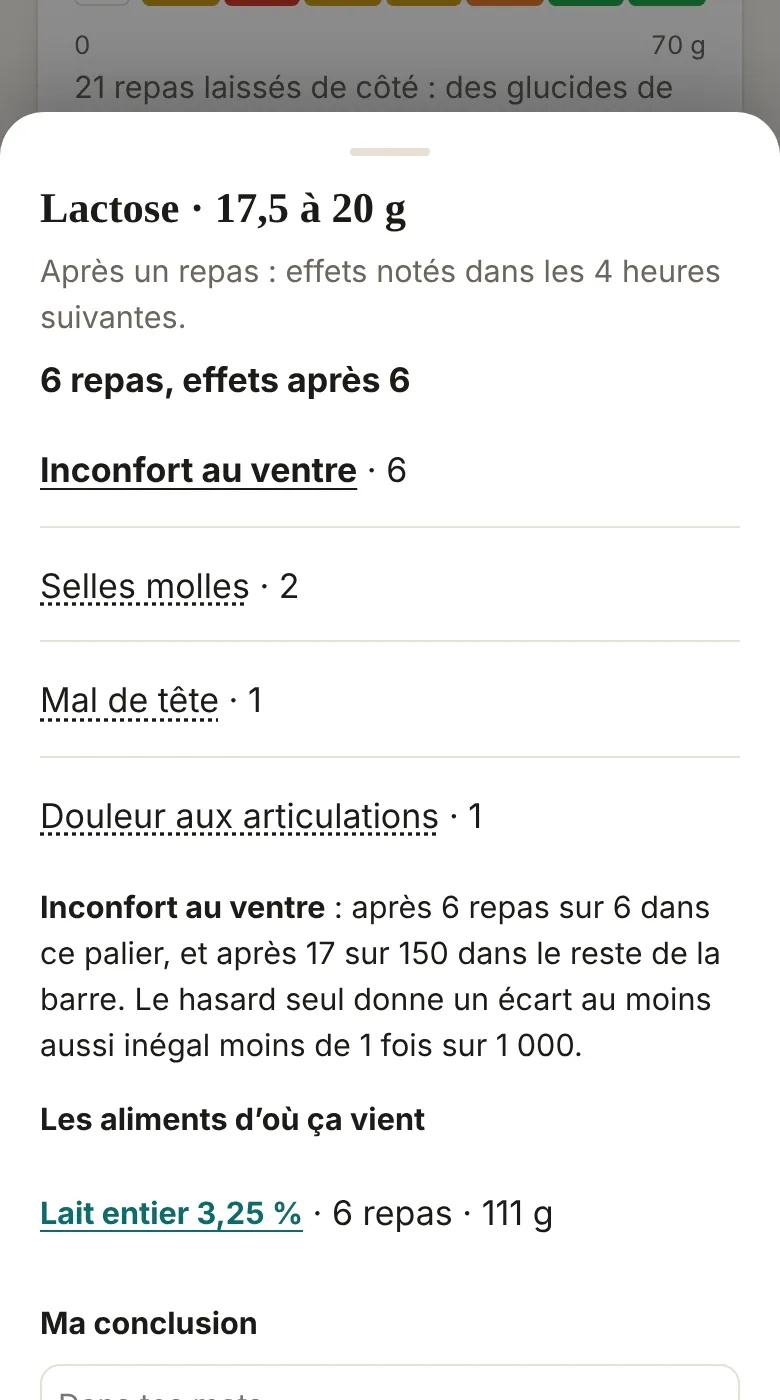
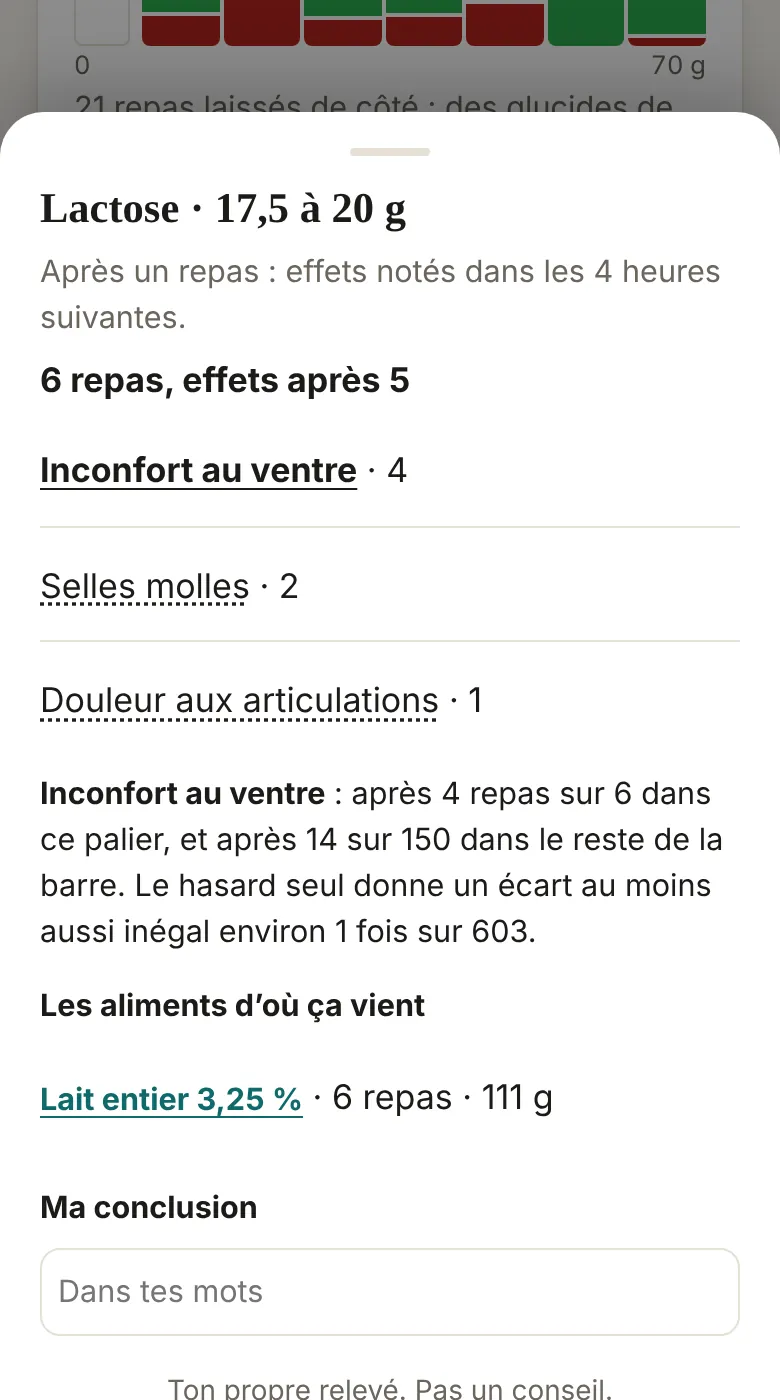
Threshold Log: the bars in green and red only
Tobie found the bars confusing: four colours, a pale tint and a dot.
A step now has two colours. Green is for its entries with no effect
reported, red for its entries with one. A step with both holds both,
red from the bottom in the share of its entries.

- No yellow, no orange, no pale tint under 5 entries, no dot.
- The green and the red are checked for colour-blind separation on the
  card colour, light and dark.
- The legend's empty swatch sat off its line, and a bar with an empty
  step had 10px of extra space under it: one style rule written for the
  "No effects today" link reached both. It names the link now.
- On a 320px phone in French a bar's count line stuck out 8px past the
  bar. The heading wraps now.
- Help, the web page and its pictures follow. The first picture on the
  page is a little taller, so the lactose bar is in it.
- Tests: the rule checks drop "pale". The walkthrough reads each bar as
  a picture: a column of pixels down every step holds red and green in
  the share of its entries, red at the bottom (tests/lib/png.js).

Claude-Session: https://claude.ai/code/session_0165oQGZXNu1ULEJPAkewgjN

diff --git a/threshold/app/index.html b/threshold/app/index.html
@@ -59,11 +59,12 @@
 :root{--bg:#f7f4ee;--card:#fff;--ink:#1c1b19;--muted:#6b665d;--line:#e6e0d4;--accent:#c8481f;--teal:#0f6b6b;--teal-soft:#e3f0ef;--warn:#b3261e;--warn-soft:#fbe9e7;--chip:#f1ede4;--chip-on:#1c1b19;--shadow:0 1px 2px rgba(0,0,0,.05),0 6px 20px -10px rgba(0,0,0,.15);
   /* the ring's slices: a fixed order, checked for colour-blind separation on this card colour. Grey is "kind not listed". */
   --s-fat:#2a78d6;--s-prot:#eb6834;--s-cplx:#1baf7a;--s-lact:#eda100;--s-sugo:#e87ba4;--s-fib:#008300;--s-alc:#6250d6;--s-unk:#9a968c;
-  /* a step of a bar: nothing reported, some, most, every time. And the Effects bar. */
-  --fx0:#1fa64a;--fx1:#c99a1a;--fx2:#e07b2e;--fx3:#d23b2a}
+  /* a step of a bar has two colours: green for its entries with no effect reported, red for its entries with one. Red is the Effects bar too.
+     The pair is checked for colour-blind separation on this card colour, so a step needs no other mark. */
+  --fx0:#2caa4e;--fx3:#b3261e}
 @media (prefers-color-scheme:dark){:root{--bg:#15161a;--card:#1e2026;--ink:#ececea;--muted:#a19d95;--line:#2d3038;--accent:#e3633a;--teal:#5fb3b3;--teal-soft:#1c2c2c;--warn:#ff7b6e;--warn-soft:#3a1f1c;--chip:#2a2d35;--chip-on:#ececea;--shadow:0 1px 2px rgba(0,0,0,.4),0 6px 20px -10px rgba(0,0,0,.6);
   --s-fat:#3987e5;--s-prot:#d95926;--s-cplx:#199e70;--s-lact:#c98500;--s-sugo:#d55181;--s-fib:#0ca30c;--s-alc:#9085e9;--s-unk:#7d7a73;
-  --fx0:#34d468;--fx1:#d9b13f;--fx2:#f08c45;--fx3:#ff5a45}}
+  --fx0:#30ad51;--fx3:#c8331a}}
 *{box-sizing:border-box}
 html,body{margin:0;background:var(--bg);color:var(--ink);font-family:system-ui,-apple-system,'Segoe UI',Roboto,sans-serif;font-size:17px;line-height:1.5;-webkit-text-size-adjust:100%}
 body{padding-bottom:calc(env(safe-area-inset-bottom) + 90px)}
@@ -177,8 +178,8 @@ html.noinst .inst,html.noinst #installPill,html.locked #installPill{display:none
 @media (max-width:340px){.topbar .in{gap:2px;padding:8px 6px} .tb.ttl{font-size:.9rem;padding:6px 2px} .tb.ttl .t2{display:none} .tb{padding:8px 6px} .bar{padding-left:10px;padding-right:10px} #bar .in{gap:6px} #bar .in .btn{padding:9px 10px}}
 
 /* ---- Threshold Log's own pieces ---- */
-.none{display:block;margin:0 auto 10px;text-align:center}
-.none[aria-pressed="true"]{color:var(--ink);text-decoration:none}
+.lnk.none{display:block;margin:0 auto 10px;text-align:center}
+.lnk.none[aria-pressed="true"]{color:var(--ink);text-decoration:none}
 /* the ring and the Effects bar, side by side: what went in, what came out */
 .io{display:grid;grid-template-columns:1fr auto;gap:14px;align-items:center}
 .ring{position:relative;width:148px;height:148px;margin:0 auto}
@@ -210,15 +211,16 @@ html.noinst .inst,html.noinst #installPill,html.locked #installPill{display:none
 .modes button{flex:1 1 0;min-width:0;white-space:normal;line-height:1.15}
 /* a threshold bar: equal steps from zero to the person's highest amount */
 .tbar{margin:0 0 14px}
-.tbar .hd{display:flex;justify-content:space-between;align-items:baseline;gap:8px;font-size:.92rem;margin-bottom:4px}
-.tbar .hd b{font-weight:700} .tbar .hd span{color:var(--muted);font-size:.84rem;font-variant-numeric:tabular-nums;white-space:nowrap}
+.tbar .hd{display:flex;flex-wrap:wrap;justify-content:space-between;align-items:baseline;gap:0 8px;font-size:.92rem;margin-bottom:4px}
+.tbar .hd b{font-weight:700} .tbar .hd span{color:var(--muted);font-size:.84rem;font-variant-numeric:tabular-nums;white-space:nowrap;margin-left:auto}
 .stepsrow{display:flex;gap:2px}
 .step{flex:1;height:44px;border:0;border-radius:4px;padding:0;cursor:pointer;position:relative;background:var(--chip)}
 .step.none{background:transparent;box-shadow:inset 0 0 0 1px var(--line);cursor:default}
-.step.s0{background:var(--fx0)} .step.s1{background:var(--fx1)} .step.s2{background:var(--fx2)} .step.s3{background:var(--fx3)}
-.step.pale{opacity:.42}
-/* a step with effects carries a mark as well as its colour: red and green are the pair colour-blind eyes confuse most */
-.step.mk::after{content:"";position:absolute;left:50%;top:50%;width:10px;height:10px;margin:-5px 0 0 -5px;border-radius:50%;background:var(--card);box-shadow:0 0 0 2px rgba(0,0,0,.35)}
+.step.g{background:var(--fx0)} .step.r{background:var(--fx3)}
+/* a step with both: red rises from the bottom by the share of its entries with an effect (--p), green above, a thin line of the card between.
+   Each colour keeps at least 5px, so one entry among many still shows. */
+.step.m{background:linear-gradient(to top,var(--fx3) var(--p),var(--fx0) var(--p))}
+@supports (width:clamp(1px,2%,3px)){.step.m{--e:clamp(5px,var(--p),calc(100% - 5px));background:linear-gradient(to top,var(--fx3) calc(var(--e) - 1px),var(--card) calc(var(--e) - 1px),var(--card) calc(var(--e) + 1px),var(--fx0) calc(var(--e) + 1px))}}
 .legend{display:flex;flex-wrap:wrap;gap:4px 14px;font-size:.82rem;color:var(--muted);margin:6px 0 0} .legend span{white-space:nowrap}
 .legend i{display:inline-block;width:14px;height:10px;border-radius:2px;vertical-align:-1px;margin-right:5px;position:relative}
 .legend i.none{box-shadow:inset 0 0 0 1px var(--line)}
@@ -244,8 +246,7 @@ ol.inst{margin:4px 0 14px;padding-left:1.4em} ol.inst li{margin:0 0 9px} .ico{di
 .step.zero{flex:0 0 9%;margin-right:4px}
 span.step{display:block}
 .scale{display:flex;justify-content:space-between;font-size:.75rem;line-height:1.2;color:var(--muted);margin-top:3px;font-variant-numeric:tabular-nums}
-.legend i.s0{background:var(--fx0)} .legend i.s1{background:var(--fx1)} .legend i.s2{background:var(--fx2)} .legend i.s3{background:var(--fx3)} .legend i.pale{opacity:.42}
-.legend i.mk::after{content:"";position:absolute;left:50%;top:50%;width:4px;height:4px;margin:-2px 0 0 -2px;border-radius:50%;background:var(--card)}
+.legend i.g{background:var(--fx0)} .legend i.r{background:var(--fx3)}
 /* one food's own bar: a cell for each amount eaten in a day */
 .fbar{display:flex;gap:2px;margin:12px 0 2px} .fbar>div{flex:1;min-width:0;text-align:center} .fbar .step{height:32px;cursor:default} .fbar small{font-size:.75rem;color:var(--muted)}
 .fxt[aria-pressed="true"]{font-weight:700;text-decoration-style:solid}
@@ -488,7 +489,7 @@ const DATA=[
    A reading is a count of what the person reported, set beside an amount. The app reports; it never interprets.
    Entries (S.ev):  {k:'meal', t, items:[{key,q}]}   {k:'fx', t, c}   {k:'none', t, d}   (t = milliseconds, d = a day key) */
 const TLE=(function(){
-const H=36e5, WIN=4*H, SOLID=5, STEPS=8, BAR_DAYS=7, UNK_MAX=2, ZEPS=0.005;
+const H=36e5, WIN=4*H, STEPS=8, BAR_DAYS=7, UNK_MAX=2, ZEPS=0.005;
 const p2=n=>(n<10?'0':'')+n;
 /* a day starts at the person's own hour (the Food Trial Log's setting), so a 1 a.m. snack belongs to the evening before */
 function dayKey(t,roll){ const d=new Date(t); if(d.getHours()<(roll||0)) d.setDate(d.getDate()-1); return d.getFullYear()+'-'+p2(d.getMonth()+1)+'-'+p2(d.getDate()); }
@@ -556,8 +557,8 @@ function steps(units){ let max=0; for(const u of units) if(u.x>max) max=u.x;
   /* "none of it" has a cell of its own, before the steps: a meal with no lactose is not a meal with a little */
   const zero={i:-1,lo:0,hi:0,n:0,k:0,fx:{},ids:[]};
   const put=(s,u)=>{ s.n++; s.ids.push(u.id); if(u.fx.length){ s.k++; for(const c of new Set(u.fx)) s.fx[c]=(s.fx[c]||0)+1; } };
-  /* rule 8: pale first, solid later. A step shows from its first entry, and is solid from five. */
-  const fin=s=>{ s.share=s.n?s.k/s.n:null; s.pale=s.n>0&&s.n<SOLID; };
+  /* rule 8: a step shows from its first entry. Its share is the part of its entries an effect was reported after. */
+  const fin=s=>{ s.share=s.n?s.k/s.n:null; };
   if(!(max>ZEPS)){ for(const u of units) put(zero,u); fin(zero); return {w:0,max:0,steps:[],zero,n:units.length}; }
   const w=stepWidth(max), n=Math.max(1,Math.min(STEPS,Math.ceil(max/w-1e-9))), st=[];
   for(let i=0;i<n;i++) st.push({i,lo:i*w,hi:(i+1)*w,n:0,k:0,fx:{},ids:[]});
@@ -589,7 +590,7 @@ function foodReading(I,key,mine){ const rows={}, without={n:0,fx:{}}; let times=
     if(d.fx.some(e=>e.c==='sleep')) put(r.night,'sleep');
     if(nx) for(const c of new Set(nx.fx.filter(e=>e.c!=='sleep').map(e=>e.c))) put(r.next,c);
     if(seen.size) r.k++; for(const c of seen) r.any[c]=(r.any[c]||0)+1; }
-  const list=Object.values(rows).sort((a,b)=>a.q-b.q); for(const r of list) r.pale=r.n<SOLID;
+  const list=Object.values(rows).sort((a,b)=>a.q-b.q);
   return {key,times,clean,rows:list,without}; }
 function foodLuck(R,row,c){ return luck(row.any[c]||0,row.n-(row.any[c]||0),R.without.fx[c]||0,R.without.n-(R.without.fx[c]||0)); }
 
@@ -664,7 +665,7 @@ function common(outKeys,listKeys,food){ const cnt=(keys)=>{ const c={}; let n=0;
   const typ=[['lact',f=>amounts(f,1).lact],['fat',f=>f.fat],['sug',f=>f.sug==null?null:amounts(f,1).sug],['fib',f=>f.fib]].map(([k,fn])=>({k,o:med(outKeys,fn),l:med(listKeys,fn)})).filter(r=>r.o!=null&&r.l!=null);
   return {rows:rows.slice(0,5),typ,on:O.n,ln:L.n}; }
 
-return {H,WIN,SOLID,STEPS,BAR_DAYS,BUCKETS,SLICES,MICRO,dayKey,keyAdd,dayStart,fxDay,amounts,addInto,mealAmounts,ZERO,index,usable,mealUnits,dayUnits,stepWidth,steps,bar,luck,stepRest,stepLuck,foodReading,foodLuck,went,came,cameMax,reportedDays,pie,reference,gutBase,importGut,common};
+return {H,WIN,STEPS,BAR_DAYS,BUCKETS,SLICES,MICRO,dayKey,keyAdd,dayStart,fxDay,amounts,addInto,mealAmounts,ZERO,index,usable,mealUnits,dayUnits,stepWidth,steps,bar,luck,stepRest,stepLuck,foodReading,foodLuck,went,came,cameMax,reportedDays,pie,reference,gutBase,importGut,common};
 })();
 if(typeof module!=='undefined') module.exports=TLE;
 /* ENGINE:END */
@@ -953,9 +954,11 @@ function rnum(x,w){ const d=w>=1?(Math.abs(w%1)>1e-9?1:0):(Math.round(w*100)%10?
 const unitWord=(mode,n)=>mode==='day'?L(n===1?'day':'days',n===1?'jour':'jours'):L(n===1?'meal':'meals','repas');
 function stepRange(B,s){ const u=BARN[B.b][2]; return s.i<0?U(0,u,0):s.i===0?L('up to ','jusqu’à ')+rnum(s.hi,B.w)+'\u00a0'+u:rnum(s.lo,B.w)+L(' to ',' à ')+rnum(s.hi,B.w)+'\u00a0'+u; }
 function stepCount(B,s){ return B.mode==='day'?L(`${s.n} ${unitWord('day',s.n)}, effects reported for ${s.k}`,`${s.n} ${unitWord('day',s.n)}, effets notés pour ${s.k}`):L(`${s.n} ${unitWord('meal',s.n)}, effects after ${s.k}`,`${s.n} repas, effets après ${s.k}`); }
-const shareCls=(k,n)=>{ const sh=k/n; return sh===0?'s0':sh<0.5?'s1':sh<1?'s2':'s3'; };
-function stepHTML(B,s){ const z=s.i<0?'zero ':'', lab=stepRange(B,s)+COL()+(s.n?stepCount(B,s):L('never eaten','jamais mangé'));
-  return s.n?`<button type="button" class="step ${z}${shareCls(s.k,s.n)}${s.pale?' pale':''}${s.k?' mk':''}" data-act="step" data-k="${B.b}" data-v="${s.i}" aria-label="${esc(lab)}" title="${esc(lab)}"></button>`
+/* a step's paint, in two colours: green (g) when no effect was reported after any of its n entries, red (r) when one was after every entry,
+   and both (m) between, with red taking the share of the k entries an effect was reported after */
+const stepPaint=(k,n)=>k===0?['g','']:k===n?['r','']:['m',` style="--p:${Math.round(k/n*100)}%"`];
+function stepHTML(B,s){ const z=s.i<0?'zero ':'', lab=stepRange(B,s)+COL()+(s.n?stepCount(B,s):L('never eaten','jamais mangé')), [pc,ps]=s.n?stepPaint(s.k,s.n):[];
+  return s.n?`<button type="button" class="step ${z}${pc}"${ps} data-act="step" data-k="${B.b}" data-v="${s.i}" aria-label="${esc(lab)}" title="${esc(lab)}"></button>`
     :`<span class="step ${z}none" role="img" aria-label="${esc(lab)}" title="${esc(lab)}"></span>`; }
 const leftWhy=b=>b==='fib'?L('a fibre supplement with no figure, or a food with no numbers','un supplément de fibres sans chiffre, ou un aliment sans chiffres'):b==='hist'?L('a histamine food with no figure, or a food with no numbers','un aliment à histamine sans chiffre, ou un aliment sans chiffres'):b==='cplx'||b==='sug'?L('carbs of a kind not listed, or a food with no numbers','des glucides de sorte non indiquée, ou un aliment sans chiffres'):L('a food with no numbers','un aliment sans chiffres');
 function barHTML(B){ const [en,fr,u]=BARN[B.b], n=B.n, c=(S.concl[B.b]||'').trim(), why=leftWhy(B.b);
@@ -973,7 +976,8 @@ function vThr(){ const I=IX(), mode=S.tmode, bars=E.BUCKETS.map(b=>E.bar(I,b,mod
   return `<div class="gtabs seg toptabs modes" role="group" aria-label="${L('Reading','Lecture')}"><button type="button" data-act="tmode" data-v="meal" aria-pressed="${mode==='meal'}">${L('After a meal','Après un repas')}</button><button type="button" data-act="tmode" data-v="day" aria-pressed="${mode==='day'}">${L('Over a day','Sur une journée')}</button></div>
   <p class="small muted" style="margin:0 0 10px">${mode==='meal'?L('The amount in one meal, and the effects you reported in the 4 hours after it.','La quantité dans un repas, et les effets que tu as notés dans les 4 heures suivantes.'):L('The total for a day, and the effects you reported that day, that night and the next day.','Le total d’une journée, et les effets que tu as notés ce jour-là, cette nuit-là et le lendemain.')}</p>
   <div class="card">${rd?'':`<p class="small" style="margin:0 0 12px">${L('Nothing to draw yet. The bars are drawn from complete days: a meal, and either an effect or a tap on “No effects today”.','Rien à tracer encore. Les barres sont tracées à partir des journées complètes\u00a0: un repas, et soit un effet, soit un appui sur «\u00a0Aucun effet aujourd’hui\u00a0».')}</p>`}${bars.map(barHTML).join('')}
-  <p class="legend"><span>${L('Effects reported after','Effets notés après')}${COL()}</span><span><i class="s0"></i>${L('none','aucun')}</span><span><i class="s1 mk"></i>${L('under half','moins de la moitié')}</span><span><i class="s2 mk"></i>${L('half or more','la moitié ou plus')}</span><span><i class="s3 mk"></i>${L('all','tous')}</span><span><i class="s0 pale"></i>${L('under 5 entries','moins de 5 entrées')}</span><span><i class="none"></i>${L('never eaten','jamais mangé')}</span></p>
+  <p class="legend"><span><i class="g"></i>${L('no effect reported','aucun effet noté')}</span><span><i class="r"></i>${L('an effect reported','un effet noté')}</span><span><i class="none"></i>${L('never eaten','jamais mangé')}</span></p>
+  <p class="small muted" style="margin:6px 0 0">${L('The more red in a step, the more often an effect was reported.','Plus un palier est rouge, plus souvent un effet a été noté.')}</p>
   <p class="mine">${L('Tap a step for its numbers.','Appuie sur un palier pour ses chiffres.')} ${MINE()}</p></div>
   <h3 style="margin-top:18px">${L('One food','Un aliment')}</h3>
   <div class="fsearch"><label class="vh" for="tQ">${L('Look up a food','Chercher un aliment')}</label><input type="search" id="tQ" class="sel" data-in="tq" value="${esc(UI.tq||'')}" placeholder="${L('Look up a food','Chercher un aliment')}" autocomplete="off"></div>
@@ -996,7 +1000,7 @@ function stepSheet(keep){ const u=UI.st, B=E.bar(IX(),u.b,S.tmode), s=u.i<0?B.ze
     luck=`<p class="small" style="margin:8px 0 0" id="luckLine"><b>${esc(cap(fxName(u.c)))}</b>${COL()}${L(`${pre} ${y} of ${s.n} ${uw(s.n)} in this step`,`${pre} ${y} ${uw(y)} sur ${s.n} dans ce palier`)}${r.n?L(`, and ${pre} ${r.y} of ${r.n} in the rest of the bar.`,`, et ${pre} ${r.y} sur ${r.n} dans le reste de la barre.`):'.'} ${luckTxt(E.stepLuck(B,u.i,u.c))}</p>`; }
   showSheet(`<h3 id="sheetTitle">${L(en,fr)} · ${stepRange(B,s)}</h3>
   <p class="small muted" style="margin:0 0 8px">${B.mode==='meal'?L('After a meal: effects reported in the 4 hours after it.','Après un repas\u00a0: effets notés dans les 4 heures suivantes.'):L('Over a day: effects reported that day, that night and the next day.','Sur une journée\u00a0: effets notés ce jour-là, cette nuit-là et le lendemain.')}</p>
-  <p style="margin:0"><b>${cap(stepCount(B,s))}</b></p>${s.pale?`<p class="small muted" style="margin:2px 0 0">${L(`Under 5 ${uw(2)}: drawn pale.`,`Moins de 5 ${uw(2)}\u00a0: tracé pâle.`)}</p>`:''}
+  <p style="margin:0"><b>${cap(stepCount(B,s))}</b></p>
   ${kinds.length?`<ul class="evs">${kinds.map(([c,n])=>`<li><button type="button" class="fxt" data-act="stfx" data-v="${esc(c)}" aria-pressed="${u.c===c}">${esc(fxName(c))}</button> · ${n}</li>`).join('')}</ul>${luck||`<p class="small muted" style="margin:0">${L('Tap an effect to see how often luck alone gives its split.','Appuie sur un effet pour voir à quelle fréquence le hasard seul donne son écart.')}</p>`}`:''}
   ${from.length?`<p class="small" style="margin:14px 0 0"><b>${L('The foods it came from','Les aliments d’où ça vient')}</b></p><ul class="evs">${from.map(a=>`<li><button type="button" class="lnk" data-act="foodrd" data-v="${esc(a.key)}">${esc(fname(food(a.key)))}</button> · ${a.u.size} ${uw(a.u.size)} · ${U(a.x,un,a.x<1?2:a.x<10?1:0)}</li>`).join('')}</ul>`:''}
   ${conclHTML(u.b)}`,keep); }
@@ -1024,7 +1028,7 @@ function foodSheet(keep){ const u=UI.fr, key=u.key, f=food(key), I=IX(), R=E.foo
   <p class="small">${holdsTxt(f)}</p>
   ${R.times?`<p style="margin:0"><b>${L(`Reported on ${R.times} complete ${dw(R.times)}.`,`Noté ${R.times} ${R.times>1?'journées complètes':'journée complète'}.`)}</b></p>
     ${S.list.length?`<p class="small muted" style="margin:2px 0 0">${L(`On ${R.clean} of them, everything else you ate was on your list.`,`Pour ${R.clean} d’entre elles, tout le reste de ce que tu as mangé était sur ta liste.`)}</p>`:''}
-    <div class="fbar">${R.rows.map(r=>`<div><span class="step ${shareCls(r.k,r.n)}${r.pale?' pale':''}${r.k?' mk':''}" role="img" aria-label="${qtxt(r.q)} ×${COL()}${r.n} ${dw(r.n)}, ${L(`effects reported for ${r.k}`,`effets notés pour ${r.k}`)}"></span><small>${qtxt(r.q)}\u00a0×</small></div>`).join('')}</div>
+    <div class="fbar">${R.rows.map(r=>{ const [pc,ps]=stepPaint(r.k,r.n); return `<div><span class="step ${pc}"${ps} role="img" aria-label="${qtxt(r.q)} ×${COL()}${r.n} ${dw(r.n)}, ${L(`effects reported for ${r.k}`,`effets notés pour ${r.k}`)}"></span><small>${qtxt(r.q)}\u00a0×</small></div>`; }).join('')}</div>
     <ul class="rd">${rows}</ul>
     <p class="small" style="margin:8px 0 0">${L('Complete days without it','Journées complètes sans cet aliment')}${COL()}<b>${R.without.n}</b>${wo.length?' · '+wo.map(([c,n])=>esc(fxLow(c))+'\u00a0'+n).join(' · '):''}</p>
     <p class="small muted" style="margin:6px 0 0">${L('Only effects reported after the food count on the same day. Tap an effect to see how often luck alone gives its split.','Le même jour, seuls les effets notés après l’aliment comptent. Appuie sur un effet pour voir à quelle fréquence le hasard seul donne son écart.')}</p>`
@@ -1139,7 +1143,7 @@ function helpSheet(){ const H2=(en,fr,ten,tfr)=>`<p class="small"><b>${L(en,fr)}
   +H2('The ring.','L’anneau.','What you reported eating in the period, by weight: fat, protein, complex carbs, lactose, other sugars and fibre. The key under it has the grams. “Carbs, kind not listed” are the carbs of foods whose sugars Health Canada doesn’t list.','Ce que tu as noté avoir mangé pendant la période, selon le poids\u00a0: gras, protéines, glucides complexes, lactose, autres sucres et fibres. La légende en dessous donne les grammes. Les «\u00a0glucides, sorte non indiquée\u00a0» sont les glucides des aliments dont Santé Canada n’indique pas les sucres.')
   +H2('Histamine, estimated.','Histamine, estimée.','The number in the middle of the ring. It’s the weight of each serving times the average for its food type in a 2011 European table. The amount in your own piece can be many times more or less: one kind of cheese has measured from under 5 to over 1,000 mg per kg. Read it as a count of histamine food.','Le chiffre au milieu de l’anneau. C’est le poids de chaque portion multiplié par la moyenne de son type d’aliment dans un tableau européen de 2011. La quantité dans ton propre morceau peut être plusieurs fois plus grande ou plus petite\u00a0: une même sorte de fromage a déjà mesuré de moins de 5 à plus de 1\u00a0000 mg par kg. Lis-le comme un compte d’aliments à histamine.')
   +H2('The Effects bar.','La barre des effets.','How many effects you reported in the period. It fills against your own highest count for a period of the same length, and it draws after 7 complete days.','Combien d’effets tu as notés pendant la période. Elle se remplit par rapport à ton propre compte le plus élevé pour une période de même durée, et elle se trace après 7 journées complètes.')
-  +H2('The Threshold bars.','Les barres de seuil.','Each bar runs from zero to your own highest amount, in equal steps. The small first cell is “none of it”. Green: no effect was reported after any entry in that step. Red: after every entry. Yellow and orange: after some. A step with effects carries a dot. A pale step has under 5 entries. An outlined step is an amount you never ate. “After a meal” reads one meal and the 4 hours after it. “Over a day” reads the total for a day with that day, that night and the next day. Poor sleep counts for the night before the morning you report it.','Chaque barre va de zéro à ta propre quantité la plus élevée, en paliers égaux. La petite première case, c’est «\u00a0aucun\u00a0». Vert\u00a0: aucun effet n’a été noté après les entrées de ce palier. Rouge\u00a0: après chacune. Jaune et orange\u00a0: après certaines. Un palier avec des effets porte un point. Un palier pâle a moins de 5 entrées. Un palier vide, avec un contour seulement, est une quantité que tu n’as jamais mangée. «\u00a0Après un repas\u00a0» lit un repas et les 4 heures suivantes. «\u00a0Sur une journée\u00a0» lit le total d’une journée avec ce jour-là, cette nuit-là et le lendemain. Un mauvais sommeil compte pour la nuit qui précède le matin où tu le notes.')
+  +H2('The Threshold bars.','Les barres de seuil.','Each bar runs from zero to your own highest amount, in equal steps. The small first cell is “none of it”. There are two colours. Green is for entries with no effect reported after them. Red is for entries with one. A step that has both shows both, with red at the bottom: the more red, the more often an effect was reported after that amount. An outlined step is an amount you never ate. “After a meal” reads one meal and the 4 hours after it. “Over a day” reads the total for a day with that day, that night and the next day. Poor sleep counts for the night before the morning you report it.','Chaque barre va de zéro à ta propre quantité la plus élevée, en paliers égaux. La petite première case, c’est «\u00a0aucun\u00a0». Il y a deux couleurs. Le vert est pour les entrées sans effet noté après. Le rouge est pour celles qui en ont un. Un palier qui a les deux montre les deux, le rouge en bas\u00a0: plus il y a de rouge, plus souvent un effet a été noté après cette quantité. Un palier vide, avec un contour seulement, est une quantité que tu n’as jamais mangée. «\u00a0Après un repas\u00a0» lit un repas et les 4 heures suivantes. «\u00a0Sur une journée\u00a0» lit le total d’une journée avec ce jour-là, cette nuit-là et le lendemain. Un mauvais sommeil compte pour la nuit qui précède le matin où tu le notes.')
   +H2('The luck number.','Le chiffre du hasard.','Tap a step, then an effect. The app sets that step beside the rest of its bar and says how often luck alone would give a split at least that uneven. It’s Fisher’s exact test, the one The Patch uses. The more steps and effects you look at, the more often one of them looks uneven by luck alone.','Appuie sur un palier, puis sur un effet. L’app met ce palier à côté du reste de sa barre et dit à quelle fréquence le hasard seul donnerait un écart au moins aussi inégal. C’est le test exact de Fisher, celui qu’utilise The Patch. Plus tu regardes de paliers et d’effets, plus souvent l’un d’eux paraît inégal par le seul hasard.')
   +H2('What a bar can’t tell apart.','Ce qu’une barre ne peut pas départager.','Things eaten together. If your high-fat meals were also your high-histamine meals, both bars take the same colours. And what you expect can shape what you feel and report.','Les choses mangées ensemble. Si tes repas riches en gras étaient aussi tes repas riches en histamine, les deux barres prennent les mêmes couleurs. Et ce à quoi tu t’attends peut influencer ce que tu ressens et ce que tu notes.')
   +H2('One food.','Un aliment.','On the Threshold tab, look up a food to see what you reported on the days you ate it, by the amount eaten that day, and on the days without it.','Dans l’onglet Seuil, cherche un aliment pour voir ce que tu as noté les jours où tu en as mangé, selon la quantité mangée ce jour-là, et les jours sans cet aliment.')

diff --git a/tests/threshold/people.test.js b/tests/threshold/people.test.js
@@ -6,7 +6,7 @@
 'use strict';
 const { ZONE } = require('../lib/zone.js');     // one fixed-offset zone for Node and for the browser, so both read a clock time the same way
 const fs = require('fs'), path = require('path'), { chromium } = require('playwright');
-const { serve } = require('../lib/serve.js'), O = require('./oracle.js'), P = require('./people.js');
+const { serve } = require('../lib/serve.js'), { decode } = require('../lib/png.js'), O = require('./oracle.js'), P = require('./people.js');
 const ROOT = path.join(__dirname, '..', '..'), FIX = path.join(__dirname, '..', 'fixtures');
 const saveDir = process.argv.includes('--save') ? process.argv[process.argv.indexOf('--save') + 1] : null;
 
@@ -106,13 +106,22 @@ async function play(browser, base, person, table) {
   }
   // ...and the same numbers as they are drawn
   await page.click('[data-act=tab][data-v=thr]');
+  const tone = await page.evaluate(() => { const rgb = v => { const e = document.createElement('i'); e.style.background = `var(${v})`; document.body.appendChild(e); const c = getComputedStyle(e).backgroundColor.match(/\d+/g).slice(0, 3).map(Number); e.remove(); return c; }; return { g: rgb('--fx0'), r: rgb('--fx3'), card: rgb('--card') }; });
+  ok(N('the two colours of a step are a green and a red'), tone.g[1] > tone.g[0] + 60 && tone.g[1] > tone.g[2] + 60 && tone.r[0] > tone.r[1] + 60 && tone.r[0] > tone.r[2] + 60, JSON.stringify(tone));
   for (const mode of ['meal', 'day']) { await page.click(`[data-act=tmode][data-v=${mode}]`);
     for (const b of BARS) { const c = R.cells(b, mode), labels = await page.locator(`#bar-${b} .stepsrow .step`).evaluateAll(els => els.map(e => e.getAttribute('aria-label')));
       const read = l => { const m = /(\d+) [^\d,]+, [^\d]*?(\d+)$/.exec(l); return m ? [+m[1], +m[2]] : [0, 0]; }, cells = c.n ? [c.zero].concat(c.steps) : [];
       same(N(`${b}, ${mode}: the steps on screen`), c.n && c.steps.length ? labels.map(read) : labels.slice(0, 1).map(read), c.n && c.steps.length ? cells.map(s => [s.n, s.k]) : c.n ? [[c.zero.n, c.zero.k]] : [[0, 0]]);
-      const drawn = await page.locator(`#bar-${b} .stepsrow .step`).evaluateAll(els => els.map(e => ({ none: e.classList.contains('none'), pale: e.classList.contains('pale'), mark: e.classList.contains('mk'), s: ['s0', 's1', 's2', 's3'].find(x => e.classList.contains(x)) || null })));
-      const paint = s => ({ none: !s.n, pale: s.n > 0 && s.n < 5, mark: s.k > 0, s: !s.n ? null : s.k === 0 ? 's0' : s.k / s.n < 0.5 ? 's1' : s.k < s.n ? 's2' : 's3' });
-      if (c.n && c.steps.length) same(N(`${b}, ${mode}: colour, pale and mark of every step`), drawn, cells.map(paint)); } }
+      // two colours and no others: green (g), red (r), both (m, with the red share), or an empty outline (none)
+      const drawn = await page.locator(`#bar-${b} .stepsrow .step`).evaluateAll(els => els.map(e => [['none', 'g', 'r', 'm'].filter(x => e.classList.contains(x)).join(' '), e.style.getPropertyValue('--p')]));
+      const share = s => Math.round(s.k / s.n * 100), paint = s => !s.n ? ['none', ''] : !s.k ? ['g', ''] : s.k === s.n ? ['r', ''] : ['m', share(s) + '%'];
+      if (c.n && c.steps.length) { same(N(`${b}, ${mode}: green, red or both for every step`), drawn, cells.map(paint));
+        // ...and the picture itself, one column of pixels down the middle of each step: red from the bottom, in the share of its entries
+        const row = page.locator(`#bar-${b} .stepsrow`), png = decode(await row.screenshot()), mid = await row.locator('.step').evaluateAll(els => { const o = els[0].parentElement.getBoundingClientRect(); return els.map(e => { const r = e.getBoundingClientRect(); return Math.round(r.left - o.left + r.width / 2); }); });
+        const far = (a, t) => (a[0] - t[0]) ** 2 + (a[1] - t[1]) ** 2 + (a[2] - t[2]) ** 2, H = 44;
+        const seen = mid.map(x => { let r = 0, g = 0, lowG = -1, highR = png.h; for (let y = 0; y < png.h; y++) { const a = png.at(x, y), dr = far(a, tone.r), dg = far(a, tone.g), dc = far(a, tone.card); if (dr < dg && dr < dc) { r++; highR = Math.min(highR, y); } else if (dg < dr && dg < dc) { g++; lowG = y; } } return [r, g, lowG < highR]; });
+        const want = cells.map(s => { if (!s.n) return [0, 0]; if (!s.k) return [0, H]; if (s.k === s.n) return [H, 0]; const e = Math.min(H - 5, Math.max(5, share(s) / 100 * H)); return [e - 1, H - e - 1]; });      // each colour keeps 5 pixels; 2 go to the line between them
+        ok(N(`${b}, ${mode}: in the picture, each step holds red and green in the share of its entries, red at the bottom`), seen.length === want.length && seen.every((s, i) => Math.abs(s[0] - want[i][0]) <= 1.5 && Math.abs(s[1] - want[i][1]) <= 1.5 && s[2]), 'pixels of red and green ' + JSON.stringify(seen.map(s => s.slice(0, 2))) + '\n     recount ' + JSON.stringify(want)); } } }
   // one step's sheet, and the luck number, by brute force
   { const c = R.cells('lact', 'meal'), B = await page.evaluate(() => { const B = TLE.bar(IX(), 'lact', 'meal'); return { zero: B.zero, steps: B.steps }; }), all = [c.zero].concat(c.steps);
     let i = all.findIndex((s, j) => j > 0 && s.k > 0), code = i > 0 ? Object.keys(all[i].fx)[0] : null;

diff --git a/threshold/index.html b/threshold/index.html
@@ -93,7 +93,7 @@ section{padding:42px 0;border-top:1px solid var(--line)}
       <p class="small">Free. No account, no ads. Your log stays on your phone.</p>
     </div>
     <figure class="shot">
-      <img src="img/bars-en.webp" alt="The Threshold screen: one bar each for fat, complex carbs, sugars, lactose, fibre and histamine, in steps from zero to the person’s highest amount, each step coloured by how often an effect was reported after it" width="780" height="1400">
+      <img src="img/bars-en.webp" alt="The Threshold screen: one bar each for fat, complex carbs, sugars, lactose, fibre and histamine, in steps from zero to the person’s highest amount, each step green where no effect was reported after it and red where one was" width="780" height="1560">
       <figcaption>Each bar runs from zero to your own highest amount.</figcaption>
     </figure>
   </div>
@@ -103,7 +103,7 @@ section{padding:42px 0;border-top:1px solid var(--line)}
     <div class="cards two">
       <div class="card"><h3>Report a meal.</h3><ul><li>Pick the foods and the portions, in halves.</li><li>The app carries 205 foods, most with Health Canada’s numbers.</li><li>A food that isn’t there goes in from its label.</li></ul></div>
       <div class="card"><h3>Report an effect.</h3><ul><li>Physical or psychological, with its time. One tap each.</li><li>Gut discomfort, headache, joint pain, poor sleep, low energy, or your own words.</li><li>On a day with none, tap <b>No effects today</b>.</li></ul></div>
-      <div class="card"><h3>Read the bars.</h3><ul><li>A bar each for fat, complex carbs, sugars, lactose, fibre and histamine.</li><li>Every step is an amount you ate. Its colour is how often an effect was reported after it.</li><li>After a meal, or over a day.</li></ul></div>
+      <div class="card"><h3>Read the bars.</h3><ul><li>A bar each for fat, complex carbs, sugars, lactose, fibre and histamine.</li><li>Every step is an amount you ate. Green: no effect reported after it. Red: an effect reported. The more red in a step, the more often.</li><li>After a meal, or over a day.</li></ul></div>
       <div class="card"><h3>You draw the conclusion.</h3><ul><li>The app counts. It doesn’t say what a count means.</li><li>It doesn’t tell you what to eat.</li><li>Every reading carries the same line: your own report, not advice.</li></ul></div>
     </div>
   </section>
@@ -202,7 +202,7 @@ section{padding:42px 0;border-top:1px solid var(--line)}
       <p class="small">Gratuit. Pas de compte, pas de publicité. Ton journal reste sur ton téléphone.</p>
     </div>
     <figure class="shot">
-      <img src="img/bars-fr.webp" alt="L’écran Seuil&nbsp;: une barre pour le gras, les glucides complexes, les sucres, le lactose, les fibres et l’histamine, en paliers de zéro à la quantité la plus élevée de la personne, chaque palier coloré selon la fréquence des effets notés après" width="780" height="1400">
+      <img src="img/bars-fr.webp" alt="L’écran Seuil&nbsp;: une barre pour le gras, les glucides complexes, les sucres, le lactose, les fibres et l’histamine, en paliers de zéro à la quantité la plus élevée de la personne, chaque palier vert là où aucun effet n’a été noté après et rouge là où un effet l’a été" width="780" height="1560">
       <figcaption>Chaque barre va de zéro à ta propre quantité la plus élevée.</figcaption>
     </figure>
   </div>
@@ -212,7 +212,7 @@ section{padding:42px 0;border-top:1px solid var(--line)}
     <div class="cards two">
       <div class="card"><h3>Note un repas.</h3><ul><li>Choisis les aliments et les portions, par demies.</li><li>L’app contient 205 aliments, la plupart avec les chiffres de Santé Canada.</li><li>Un aliment qui n’y est pas s’ajoute selon son étiquette.</li></ul></div>
       <div class="card"><h3>Note un effet.</h3><ul><li>Physique ou psychologique, avec son heure. Un appui chacun.</li><li>Inconfort au ventre, mal de tête, douleur aux articulations, mauvais sommeil, peu d’énergie, ou tes propres mots.</li><li>Une journée sans effet, appuie sur <b>Aucun effet aujourd’hui</b>.</li></ul></div>
-      <div class="card"><h3>Lis les barres.</h3><ul><li>Une barre pour le gras, les glucides complexes, les sucres, le lactose, les fibres et l’histamine.</li><li>Chaque palier est une quantité que tu as mangée. Sa couleur dit à quelle fréquence un effet a été noté après.</li><li>Après un repas, ou sur une journée.</li></ul></div>
+      <div class="card"><h3>Lis les barres.</h3><ul><li>Une barre pour le gras, les glucides complexes, les sucres, le lactose, les fibres et l’histamine.</li><li>Chaque palier est une quantité que tu as mangée. Vert&nbsp;: aucun effet noté après. Rouge&nbsp;: un effet noté. Plus un palier est rouge, plus c’est fréquent.</li><li>Après un repas, ou sur une journée.</li></ul></div>
       <div class="card"><h3>C’est toi qui conclus.</h3><ul><li>L’app compte. Elle ne dit pas ce qu’un compte veut dire.</li><li>Elle ne te dit pas quoi manger.</li><li>Chaque relevé porte la même ligne&nbsp;: ton propre relevé, pas un conseil.</li></ul></div>
     </div>
   </section>

diff --git a/tests/threshold/engine.test.js b/tests/threshold/engine.test.js
@@ -82,7 +82,7 @@ eq('a headache belongs to its own day', E.fxDay(fx('2026-11-10', '07:00', 'head'
   eq('the day itself', U.units[1].fx, ['head']);
   eq('a day with nothing that day, that night or the next', U.units[2].fx, []); }
 
-// ---- rule 6 and 8: steps, pale and solid ----
+// ---- rule 6 and 8: steps, each shown from its first entry ----
 eq('step width for a 60 g range', E.stepWidth(60), 10);
 eq('step width for a 3 mg range', E.stepWidth(3), 0.5);
 { const units = []; for (let i = 0; i < 6; i++) units.push({ x: 5, fx: [], id: 'a' + i }); for (let i = 0; i < 2; i++) units.push({ x: 35, fx: ['head'], id: 'b' + i }); units.push({ x: 60, fx: ['head', 'gut'], id: 'c' }); units.push({ x: 60, fx: [], id: 'd' });
@@ -90,12 +90,12 @@ eq('step width for a 3 mg range', E.stepWidth(3), 0.5);
   eq('six steps of 10 g', [B.w, B.steps.length, B.max], [10, 6, 60]);
   eq('entries land in their step, the top edge included', B.steps.map(s => s.n), [6, 0, 0, 2, 0, 2]);
   eq('share of entries followed by an effect', B.steps.map(s => s.share), [0, null, null, 1, null, 0.5]);
-  eq('solid from five entries, pale below', B.steps.map(s => s.pale), [false, false, false, true, false, true]);
+  eq('a step shows from its first entry', E.steps([{ x: 5, fx: ['head'], id: 1 }]).steps.filter(s => s.n).map(s => [s.n, s.k, s.share]), [[1, 1, 1]]);
   eq('effects counted by kind, once per entry', B.steps[5].fx, { head: 1, gut: 1 });
   eq('no amounts, no bar', E.steps([{ x: 0, fx: [], id: 1 }]).steps.length, 0); }
 // "none of it" has its own cell, so a meal with no lactose is never counted as a meal with a little
 { const B = E.steps([{ x: 0, fx: [], id: 1 }, { x: 0, fx: ['gut'], id: 2 }, { x: 0.001, fx: [], id: 3 }, { x: 4, fx: ['gut'], id: 4 }, { x: 12, fx: ['gut'], id: 5 }]);
-  eq('the none cell: its entries, and how many were followed by an effect', [B.zero.n, B.zero.k, B.zero.share, B.zero.pale], [3, 1, 1 / 3, true]);
+  eq('the none cell: its entries, and how many were followed by an effect', [B.zero.n, B.zero.k, B.zero.share], [3, 1, 1 / 3]);
   eq('the steps hold only the entries with some of it', B.steps.map(s => s.n), [0, 0, 1, 0, 0, 1]);
   eq('everything is counted once', B.zero.n + B.steps.reduce((t, s) => t + s.n, 0), B.n);
   eq('with no amounts at all, the none cell still holds the entries', E.steps([{ x: 0, fx: ['head'], id: 1 }]).zero.k, 1); }
@@ -126,8 +126,7 @@ eq('nothing to compare with', E.luck(3, 0, 0, 0), null);
   eq('next day', R.rows[0].next, { lowen: 1, gut: 1 });
   eq('the days without it stay on screen', [R.without.n, R.without.fx], [2, { lowen: 1, gut: 1 }]);
   eq('how clean it was: days where nothing else was new', R.clean, 2);
-  eq('days with any effect that day, that night or the next day, at each amount', R.rows.map(r => r.k), [2, 1]);
-  eq('a row is pale under five', R.rows[0].pale, true); }
+  eq('days with any effect that day, that night or the next day, at each amount', R.rows.map(r => r.k), [2, 1]); }
 
 // ---- Home: what went in, what came out ----
 { const S = { roll: 0, ev: [] }; for (let d = 1; d <= 9; d++) { const k = '2026-11-' + (d < 10 ? '0' + d : d); S.ev.push(meal(k, '08:00', [['steak', 1]])); for (let i = 0; i < (d === 5 ? 4 : 1); i++) S.ev.push(fx(k, '1' + i + ':00', 'head')); }

diff --git a/tests/lib/png.js b/tests/lib/png.js
@@ -1,0 +1,28 @@
+// Reads a picture of the screen into its pixels, so a test can check what is drawn and not only what the page says is drawn.
+// Plain Node, nothing to install. It reads the one kind of PNG a browser screenshot is: 8 bits a channel, RGB or RGBA, not interlaced.
+'use strict';
+const zlib = require('zlib');
+
+function decode(buf) {
+  if (buf.length < 8 || buf.readUInt32BE(0) !== 0x89504e47) throw new Error('not a PNG');
+  let p = 8, w = 0, h = 0, bpp = 0; const idat = [];
+  while (p < buf.length) {
+    const len = buf.readUInt32BE(p), type = buf.toString('latin1', p + 4, p + 8), data = buf.subarray(p + 8, p + 8 + len);
+    if (type === 'IHDR') { w = data.readUInt32BE(0); h = data.readUInt32BE(4);
+      if (data[8] !== 8 || (data[9] !== 2 && data[9] !== 6) || data[12]) throw new Error(`a kind of PNG this reader does not read: depth ${data[8]}, colour type ${data[9]}, interlace ${data[12]}`);
+      bpp = data[9] === 6 ? 4 : 3; }
+    else if (type === 'IDAT') idat.push(data);
+    else if (type === 'IEND') break;
+    p += 12 + len; }
+  const raw = zlib.inflateSync(Buffer.concat(idat)), row = w * bpp, px = Buffer.alloc(h * row);
+  if (raw.length !== h * (row + 1)) throw new Error('PNG data is not the size its header says');
+  for (let y = 0; y < h; y++) { const f = raw[y * (row + 1)], o = y * (row + 1) + 1, d = y * row;      // each row starts with the filter it was saved with
+    for (let x = 0; x < row; x++) { const a = x >= bpp ? px[d + x - bpp] : 0, b = y ? px[d - row + x] : 0, c = x >= bpp && y ? px[d - row + x - bpp] : 0;
+      let add = 0;
+      if (f === 1) add = a; else if (f === 2) add = b; else if (f === 3) add = (a + b) >> 1;
+      else if (f === 4) { const pa = Math.abs(b - c), pb = Math.abs(a - c), pc = Math.abs(a + b - 2 * c); add = pa <= pb && pa <= pc ? a : pb <= pc ? b : c; }
+      else if (f !== 0) throw new Error('PNG row filter ' + f);
+      px[d + x] = (raw[o + x] + add) & 255; } }
+  return { w, h, at: (x, y) => { const i = y * row + x * bpp; return [px[i], px[i + 1], px[i + 2]]; } };
+}
+module.exports = { decode };

diff --git a/tests/threshold/screens.test.js b/tests/threshold/screens.test.js
@@ -72,7 +72,7 @@ async function open(browser, base, o) {
       await tap('[data-act=tab][data-v=nut]'); for (const per of ['today', 'week', 'month']) { await tap(`[data-act=nper][data-v=${per}]`); await visit('Nutrition, ' + per); } await tap('details.note summary'); await visit('Nutrition, the reference questions');
       if (B.gut) { await tap('[data-act=impread]'); await visit('import, confirm'); await shut(); const rej = page.locator('#app [data-act=foodrd]'); if (await rej.count()) { await rej.first().click(); await visit('one food, rejected in the Food Trial Log'); await shut(); } }
       await tap('[data-act=tab][data-v=thr]'); for (const mode of ['meal', 'day']) { await tap(`[data-act=tmode][data-v=${mode}]`); await visit('Threshold, ' + mode);
-        const st = page.locator('button.step.mk'); if (await st.count()) { await st.last().click(); const f = page.locator('#sheet [data-act=stfx]'); if (await f.count()) await f.first().click(); await visit('a step, ' + mode); await shut(); } }
+        const st = page.locator('button.step:is(.r,.m)'); if (await st.count()) { await st.last().click(); const f = page.locator('#sheet [data-act=stfx]'); if (await f.count()) await f.first().click(); await visit('a step, ' + mode); await shut(); } }
       const chip = page.locator('#tqRows [data-act=foodrd]'); if (await chip.count()) { await chip.first().click(); const f = page.locator('#sheet [data-act=frfx]'); if (await f.count()) await f.first().click(); await visit('one food'); await shut(); }
       await page.fill('#tQ', lang === 'fr' ? 'pain' : 'bread'); await visit('Threshold, a food search'); await page.fill('#tQ', 'zzzz'); await visit('Threshold, a food search with no match'); await page.fill('#tQ', '');
       await tap('#topbar [data-act=ai]'); await visit('Ask AI, this month'); await tap('#sheet [data-act=aiscope][data-v=all]'); await visit('Ask AI, everything'); await shut();

diff --git a/threshold/app/sw.js b/threshold/app/sw.js
@@ -1,7 +1,7 @@
 /* Threshold Log — offline cache. A new app version changes CACHE, so phones pick it up on the next open with a connection.
    Copyright (C) 2026  Tobie David · SPDX-License-Identifier: AGPL-3.0-or-later, with two terms under its section 7 (see the notice
    at the top of index.html) · https://github.com/tobiedavid/v3ktor.org */
-const CACHE='thresholdlog-0.1.0-e8f9c589';
+const CACHE='thresholdlog-0.1.0-5278da79';
 const SHELL=['./','index.html','manifest.webmanifest','icons/icon-192.png','icons/icon-512.png','icons/maskable-512.png','icons/apple-touch-icon.png','icons/favicon-32.png'];
 self.addEventListener('install',e=>{ e.waitUntil(caches.open(CACHE).then(c=>c.addAll(SHELL)).then(()=>self.skipWaiting())); });
 self.addEventListener('activate',e=>{ e.waitUntil(caches.keys().then(ks=>Promise.all(ks.filter(k=>k.startsWith('thresholdlog-')&&k!==CACHE).map(k=>caches.delete(k)))).then(()=>self.clients.claim())); });

diff --git a/tests/README.md b/tests/README.md
@@ -11,10 +11,10 @@
 | `gut/one-food.test.js` | In the Food Trial Log, a bad day takes one food off the list, and undoing the report puts it back. | Playwright |
 | `threshold/import.test.js` | The Threshold Log's import gives the same lists as the Food Trial Log's own screens, on five saved examples; from the browser, from a backup file, and from an old save. | Playwright |
 | `threshold/screens.test.js` | Every screen and sheet of the Threshold Log, in both languages, on a 320-pixel phone: the words it never uses, French punctuation, nothing off screen, the keyboard, offline, the door, a day turning over, unreadable saved data, and the web page. | Playwright |
-| `threshold/people.test.js` | Two made-up people use the Threshold Log for six weeks, one tap at a time. At the end every count on screen is checked against `threshold/oracle.js`, an independent recount that shares no code with the app. | Playwright |
+| `threshold/people.test.js` | Two made-up people use the Threshold Log for six weeks, one tap at a time. At the end every count on screen is checked against `threshold/oracle.js`, an independent recount that shares no code with the app. The bars are checked as pictures too: a column of pixels down each step holds red and green in the share of its entries, red at the bottom. | Playwright |
 
 To run the screen tests on your own machine: `npm install --no-save playwright` and `npx playwright install chromium`, once.
 
-`fixtures/` holds saved Food Trial Log states from made-up people. `threshold/people.js` is the two people; everything they do is decided by a seeded random number, so every run plays the same six weeks.
+`fixtures/` holds saved Food Trial Log states from made-up people. `lib/png.js` reads a screenshot into its pixels, in plain Node. `threshold/people.js` is the two people; everything they do is decided by a seeded random number, so every run plays the same six weeks.
 
 Not tested here: a real iPhone. Installing, and bringing the Food Trial Log's lists into an installed app by its backup file, were tested in a desktop browser only.
